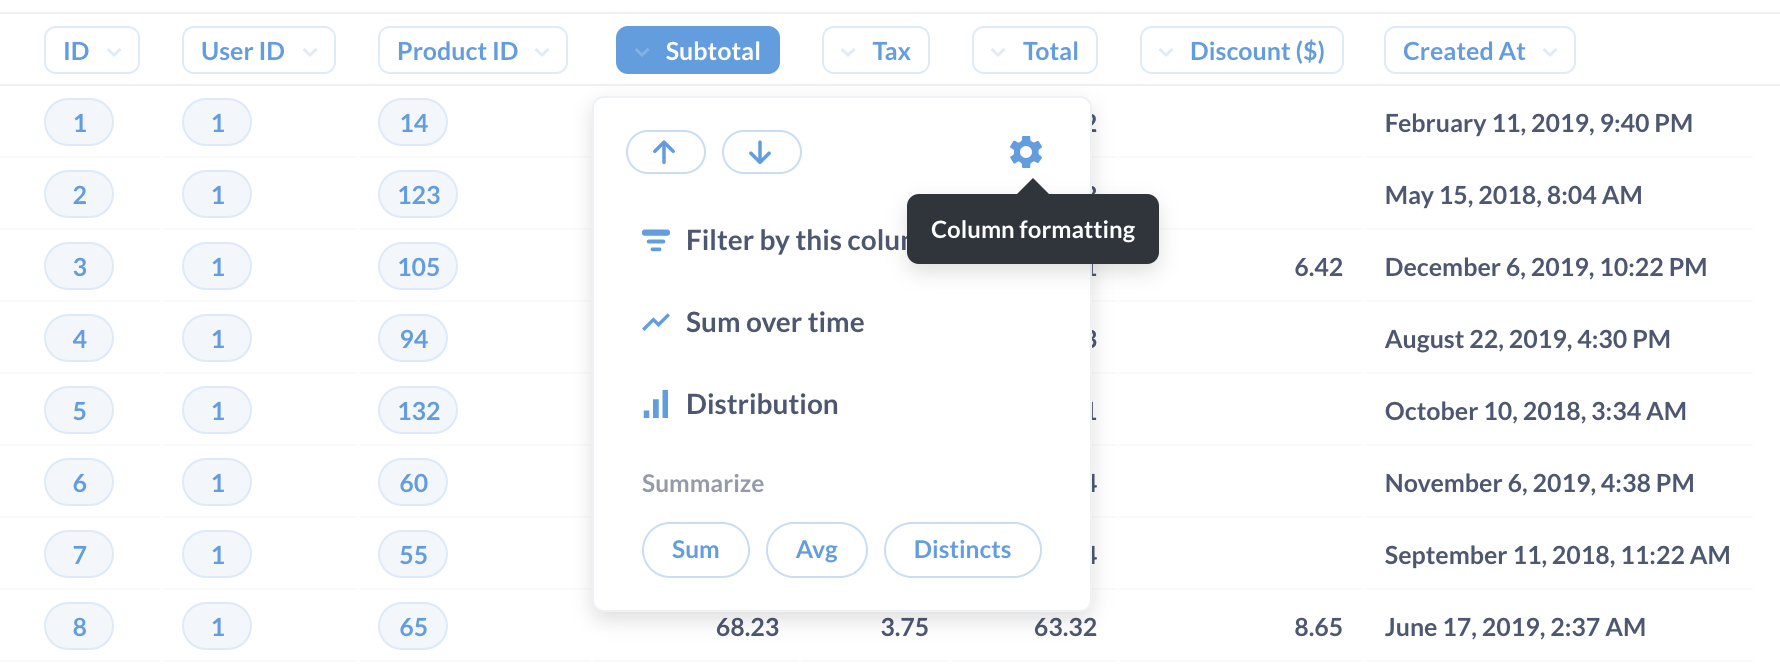
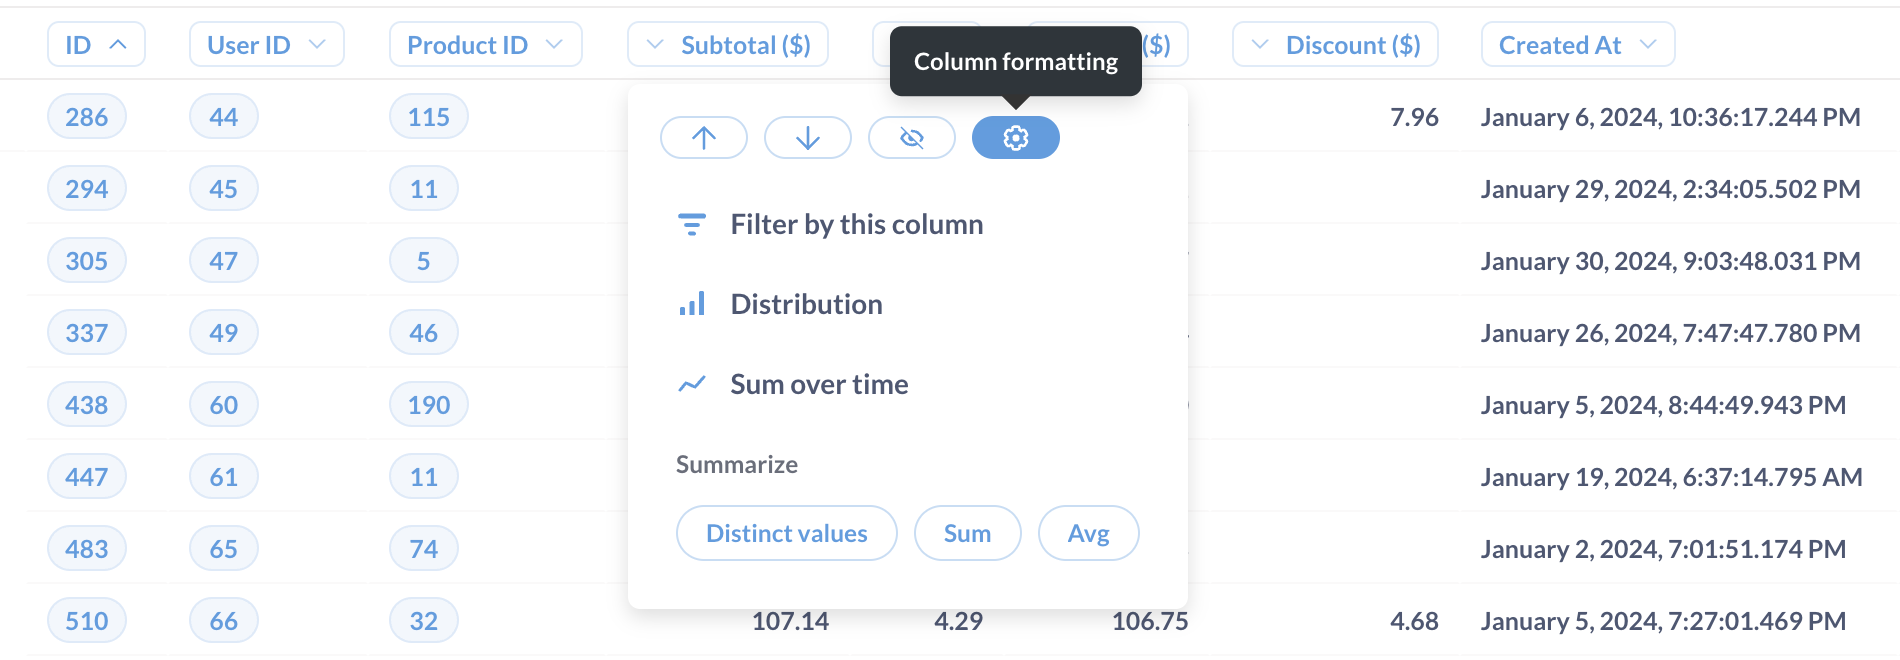
[docs] Updating table settings  (#42324)
* updating the first section

* updating the column header formatting screenshot

* Typo

* Update docs/questions/sharing/visualizations/table.md

* Update docs/questions/sharing/visualizations/table.md

---------

diff --git a/docs/questions/sharing/visualizations/table.md b/docs/questions/sharing/visualizations/table.md
@@ -8,9 +8,11 @@ The **Table** option is good for looking at tabular data (duh), or for lists of 
 
 ## Rearranging, adding, and removing columns
 
-Open up the settings for your table and you'll see the Columns tab, which displays all the columns currently being shown in the table. Below that you'll see a list of more columns from linked tables, if any, that you can add to the current table view.
+Open up the settings for your table and you'll see the Columns tab, which displays all the columns currently being shown in the table. To hide a column, click the eye icon.
 
-To hide a column, click the X icon on it; that'll send it down to the **More columns** area in case you want to bring it back. To add a linked column, just click the + icon on it, which will bring it to the **Visible columns** section. Click and drag any of the columns listed there to rearrange the order in which they appear. Another super easy way to rearrange columns without having to open up the visualization settings is to simply click and drag on a column's heading to move it where you'd like it to go.
+To manage these columns, including columns from linked tables, just click **add or remove columns**. Check the boxes next to the columns you want to show in the **visible section**, or uncheck to hide them. 
+
+To rearrange the order of the columns, simply click and drag any of the columns in the sidebar. You can also click on a column's heading in the table and drag the column to another position in the table.
 
 > Changing these options doesn't change the actual table itself; these changes create a custom view of the table that you can save as a **question** in Metabase and refer to later, share with others, or add to a [dashboard](../../../dashboards/start.md).
 
